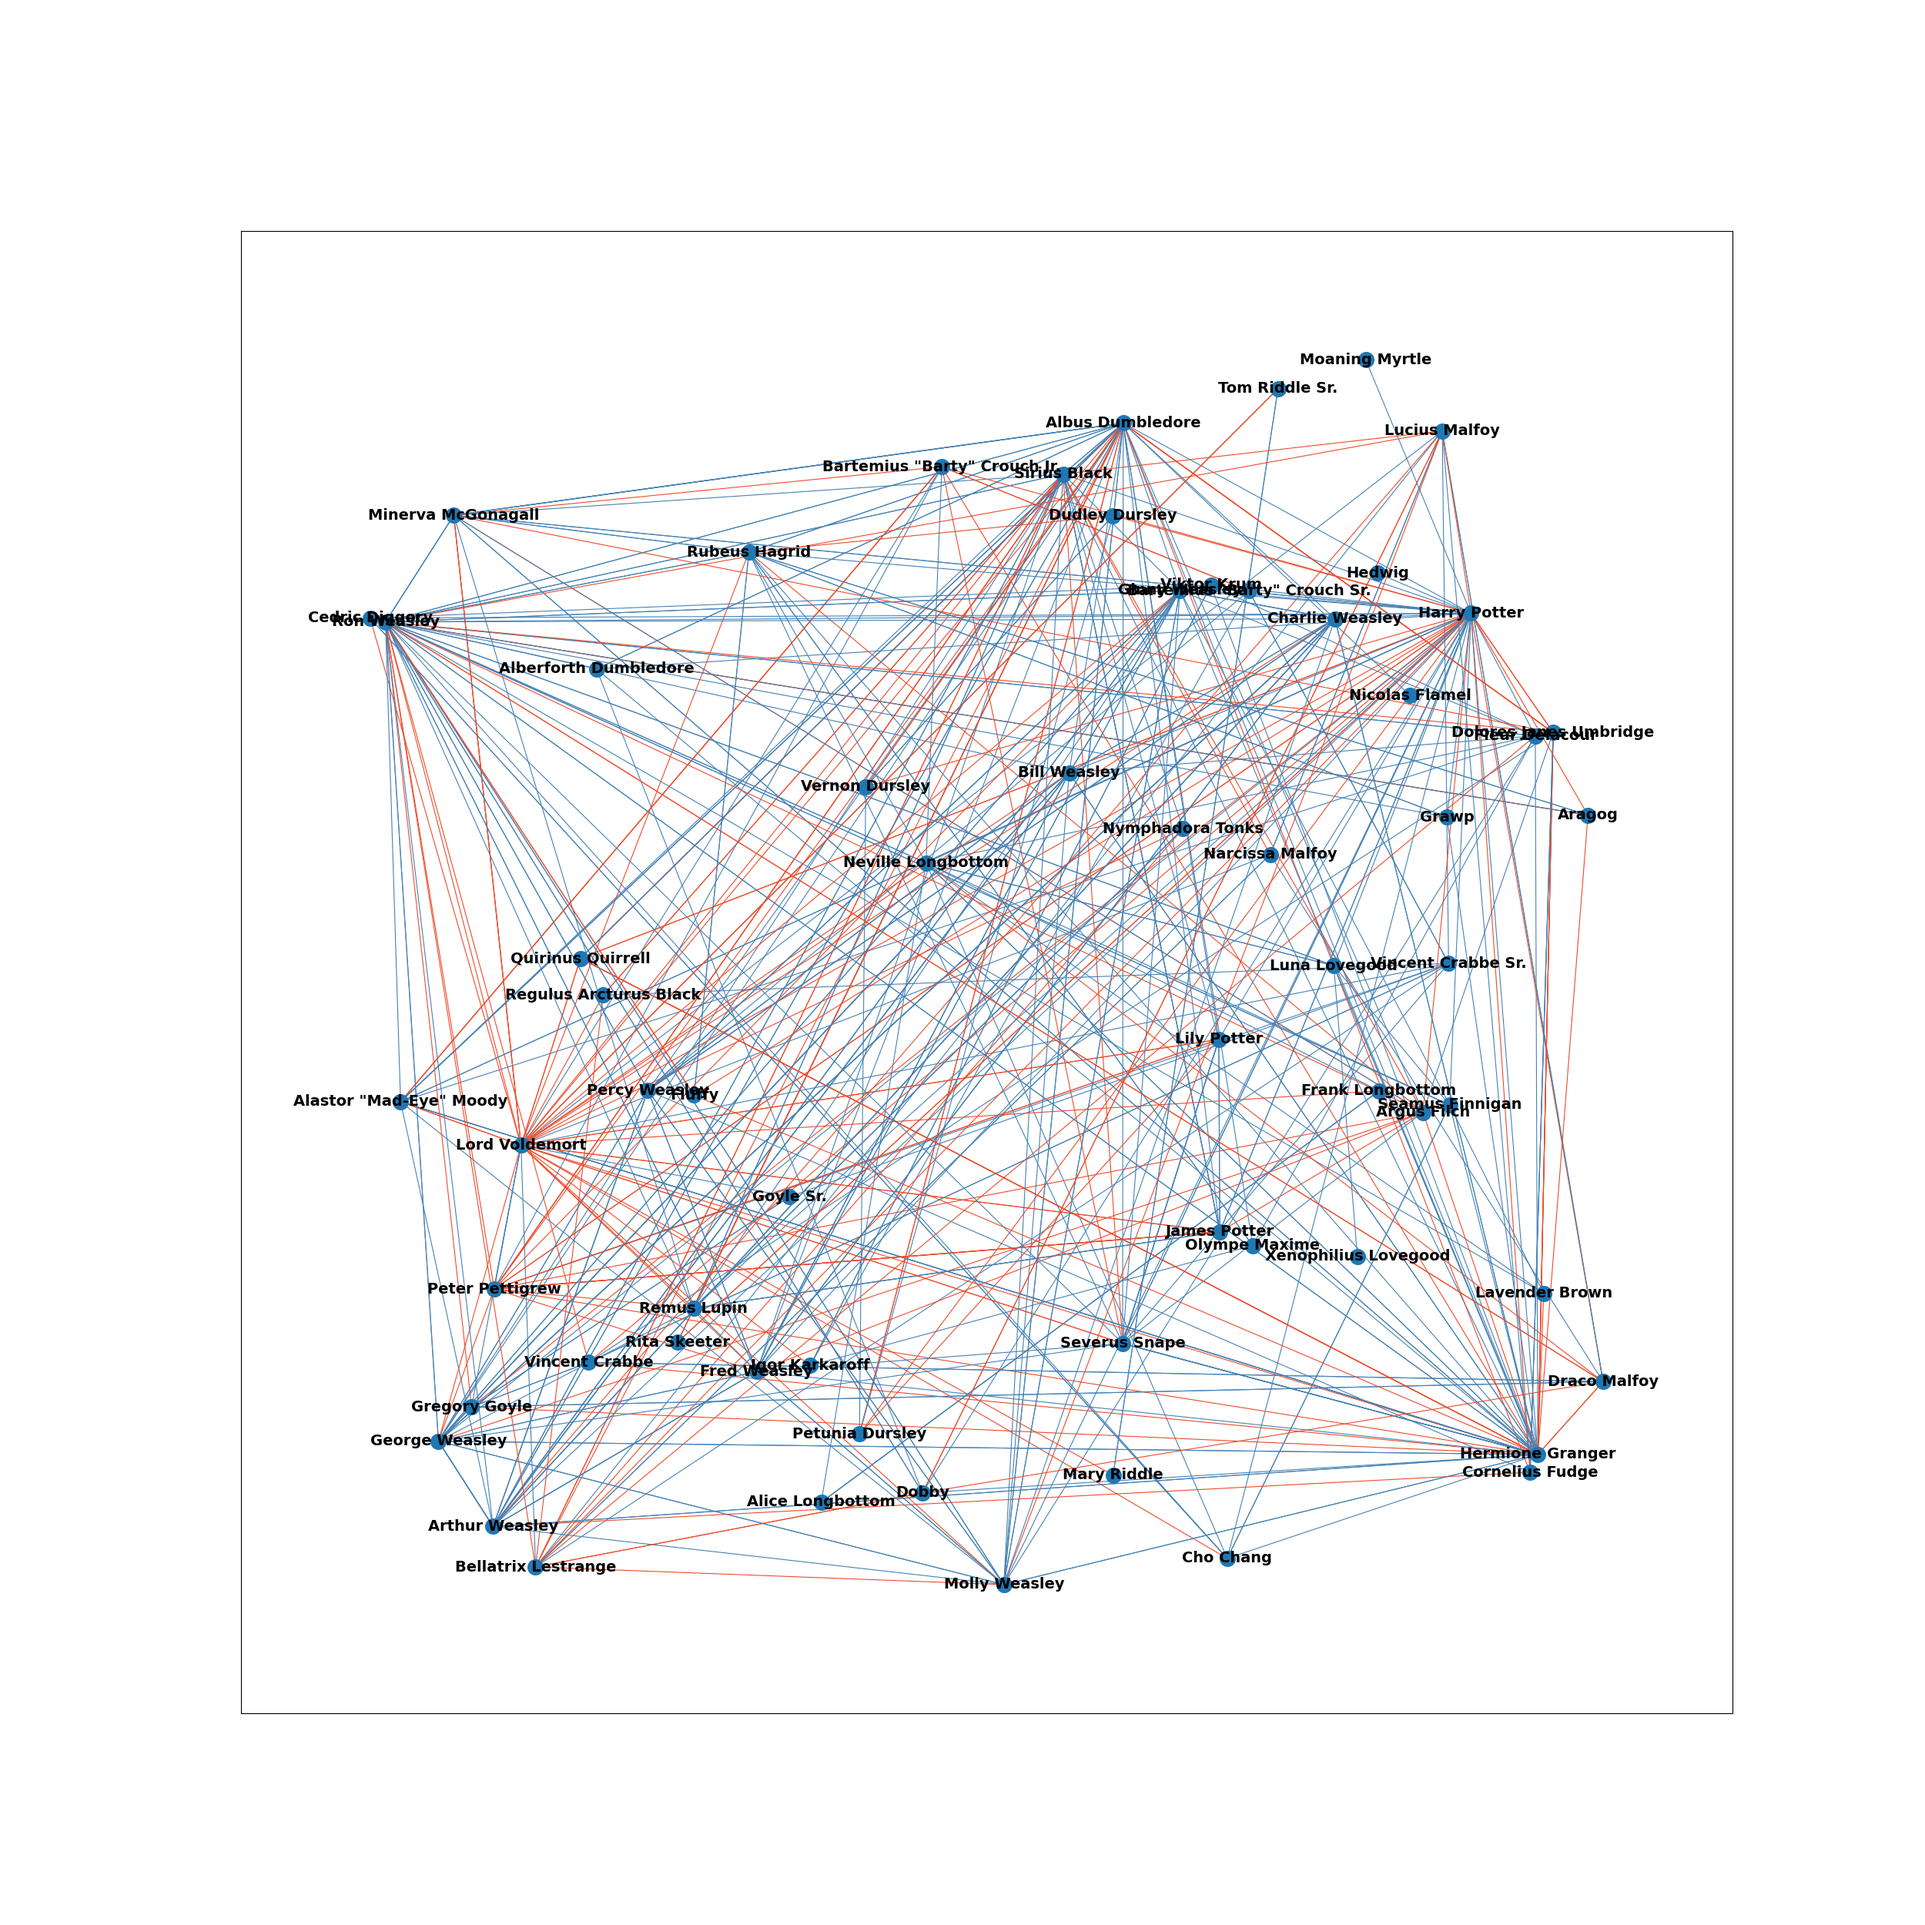
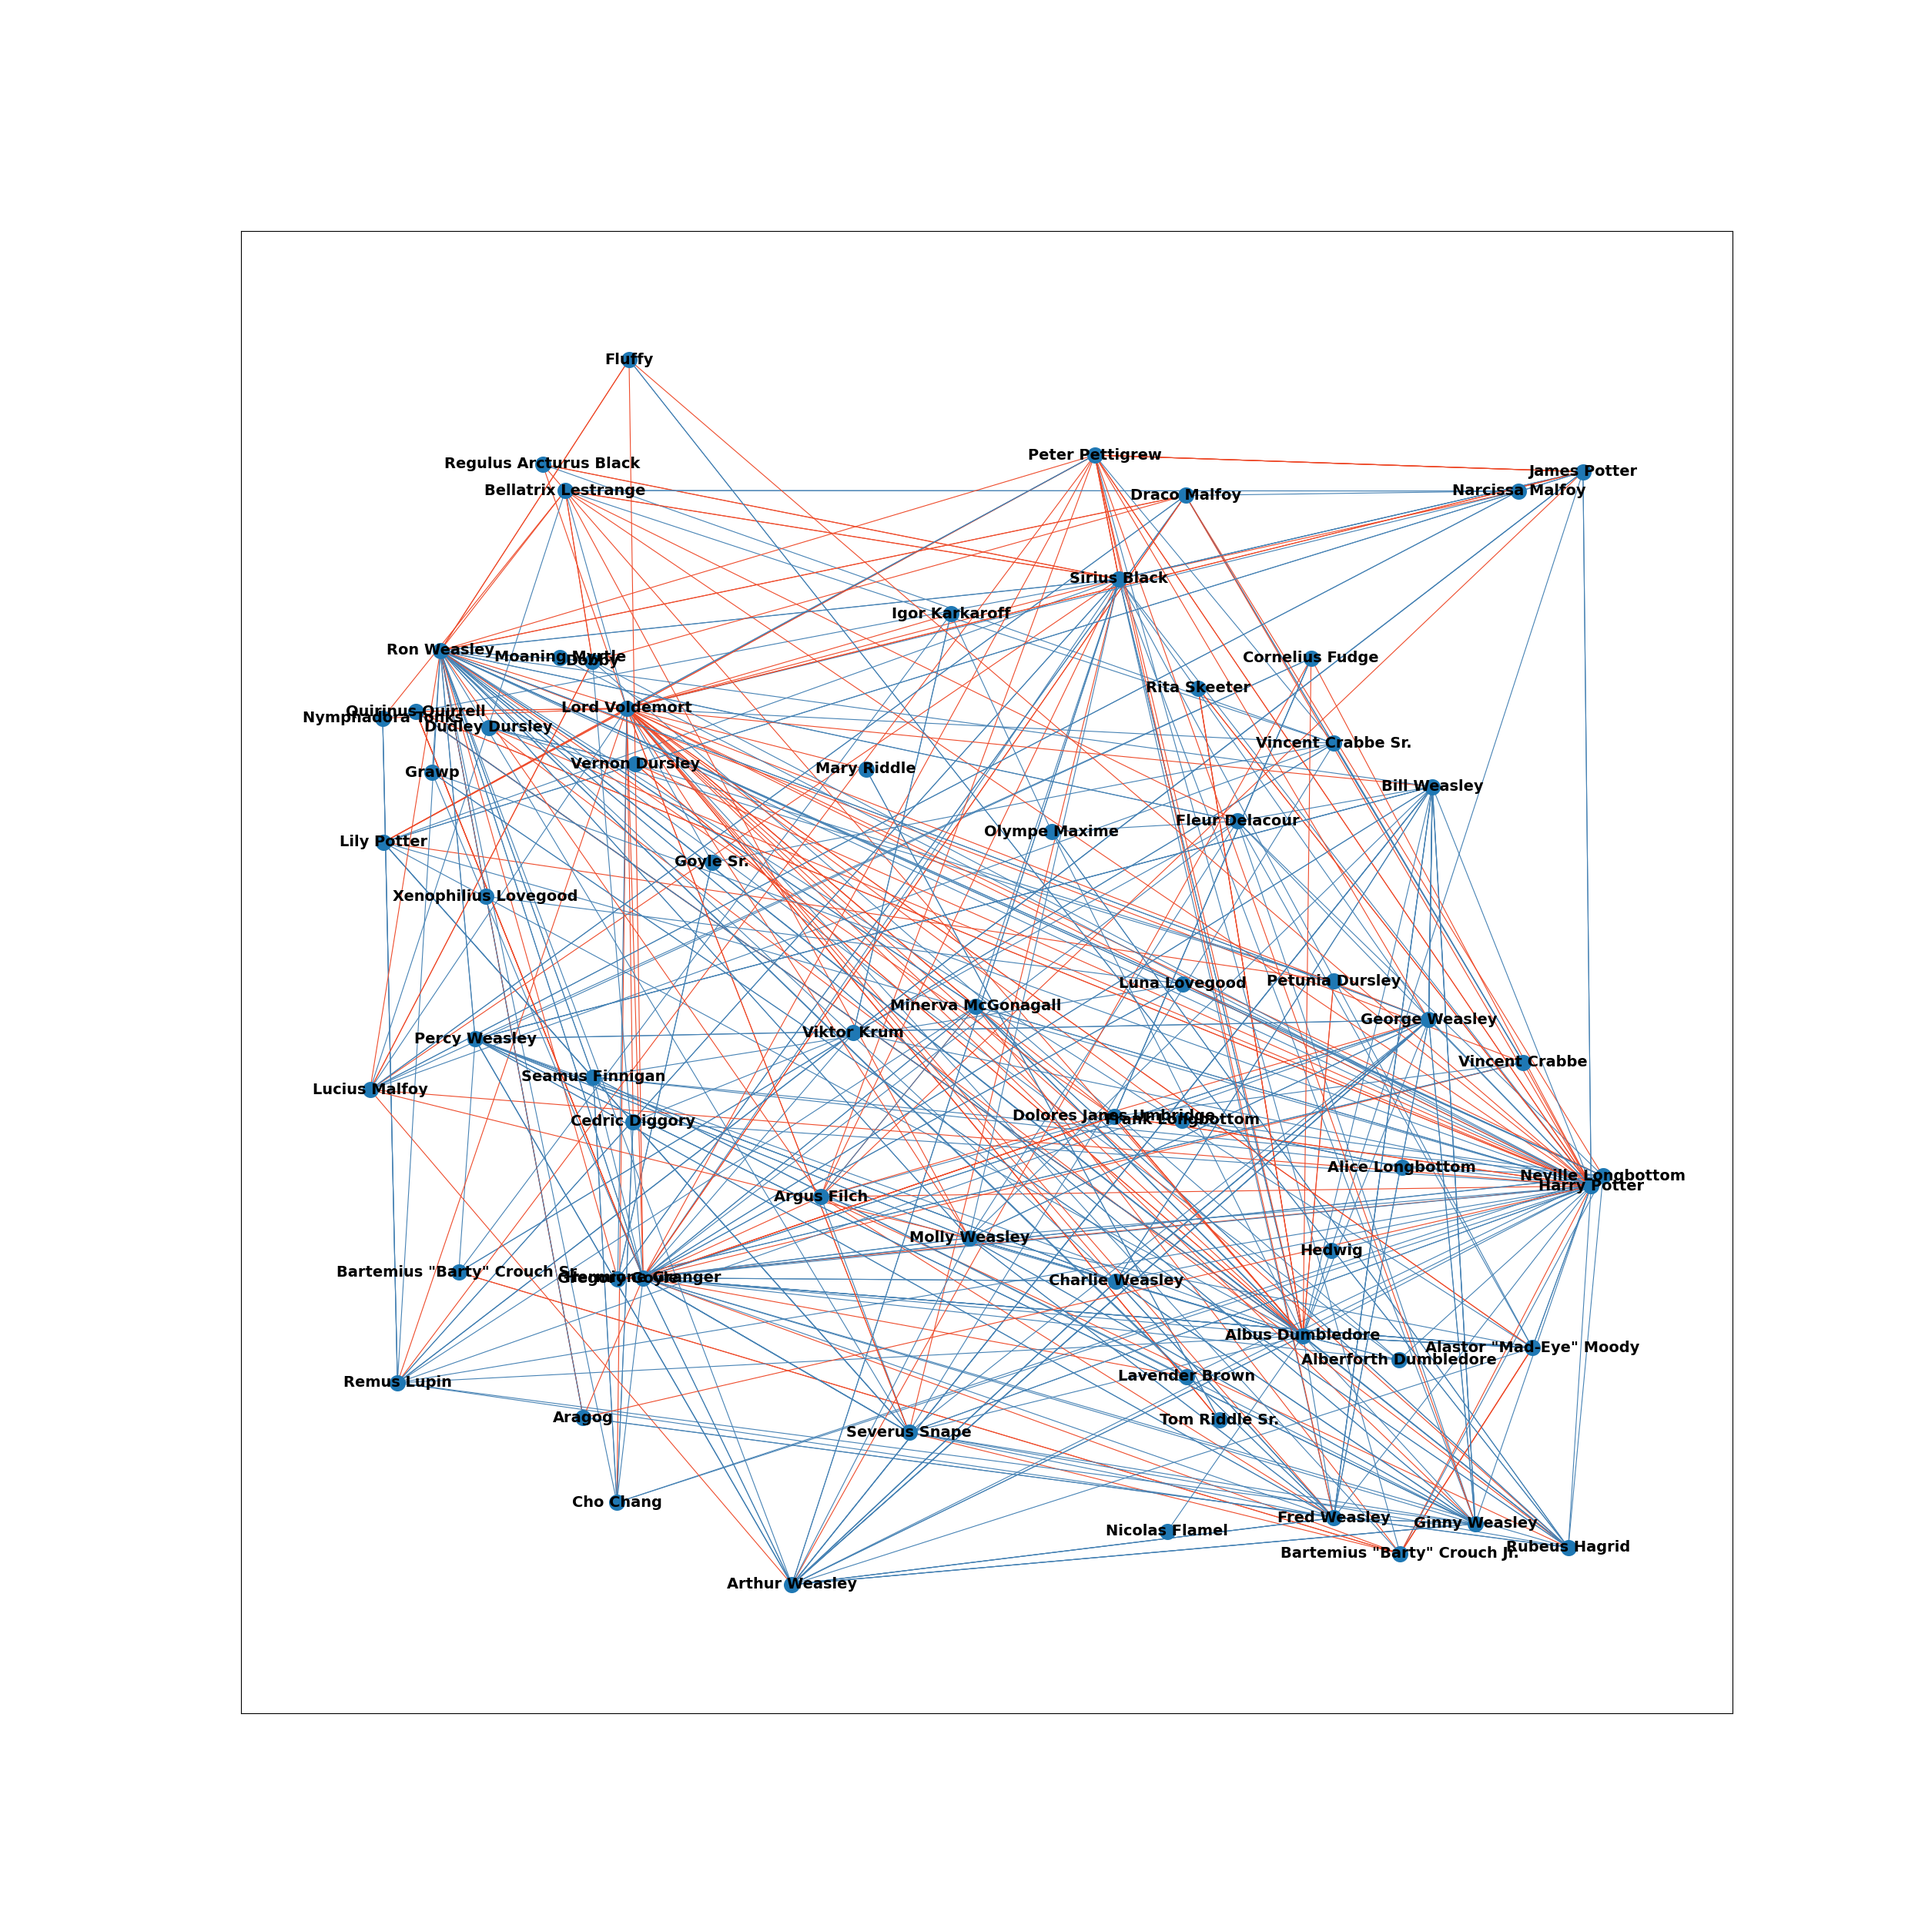
triads

Changed region(s): [[0.156, 0.1872, 0.8736, 0.8424], [0.8112, 0.2184, 0.8424, 0.2496], [0.6552, 0.1872, 0.6864, 0.2184]]

diff --git a/TriadsCommunities.py b/TriadsCommunities.py
@@ -1,0 +1,76 @@
+import pandas as pd
+import networkx as nx
+import matplotlib.pyplot as plt
+import matplotlib.colors as mcolors
+import seaborn as sns
+
+characters = pd.read_csv("data/characters.csv")
+mapping = dict(zip(characters.id, characters.name))
+print(mapping)
+
+edges = pd.read_csv("data/relations.csv")
+
+edges["type"] = edges["type"].replace("+", 1).replace("-", -1)
+
+edges_pos = edges.loc[edges["type"] == 1]
+source_list = edges_pos["source"].tolist()
+target_list = edges_pos["target"].tolist()
+
+edges_neg = edges.loc[edges["type"] == -1]
+source_neg = edges_neg["source"].tolist()
+target_neg = edges_neg["target"].tolist()
+
+edges_list_pos = []
+for i in range(0, len(source_list)):
+    edges_list_pos.append((source_list[i], target_list[i]))
+
+edges_list_neg = []
+for i in range(0, len(source_neg)):
+    edges_list_pos.append((source_neg[i], target_neg[i]))
+
+graph = nx.Graph()
+graph.add_edges_from(edges_list_pos)
+
+graph = nx.to_directed(graph)
+
+graph_neg = nx.Graph()
+graph_neg.add_edges_from(edges_list_neg)
+
+graph_neg = nx.to_directed(graph_neg)
+
+hp_triads = []
+voldemort_triads = []
+
+hp_triads_neg = []
+voldemort_triads_neg = []
+
+for triad in nx.all_triads(graph):
+    try:
+        if triad.has_node(39) and triad.has_node(55):
+            if (nx.triad_type(triad)=='120D' or nx.triad_type(triad)=='210' or nx.triad_type(triad)=='300'
+                    or nx.triad_type(triad)=='120U' or nx.triad_type(triad)=='120C')\
+                    or nx.triad_type(triad)=='030C' or nx.triad_type(triad)=='030D':
+                hp_triads.append(triad)
+        if triad.has_node(45) and triad.has_node(47):
+            if (nx.triad_type(triad) == '120D' or nx.triad_type(triad) == '210' or nx.triad_type(triad) == '300'
+                or nx.triad_type(triad) == '120U' or nx.triad_type(triad) == '120C') \
+                    or nx.triad_type(triad) == '030C' or nx.triad_type(triad) == '030D':
+                voldemort_triads.append(triad)
+    except:
+        print("no triad")
+
+print(len(hp_triads))
+print(len(voldemort_triads))
+
+for triad in hp_triads:
+    print(triad.nodes)
+
+'''triadic_census = nx.triadic_census(graph)
+for key, value in triadic_census.items():
+    print(f"{key}: {value}")
+
+
+
+triadic_census.keys()
+nx.triad_type()'''
+

diff --git a/NetworkX.py b/NetworkX.py
@@ -1,3 +1,5 @@
+import math
+
 import matplotlib
 import pandas as pd
 import networkx as nx
@@ -130,8 +132,8 @@ graph.add_edges_from(edges_list)
 
 description(graph)
 
-'''draw_network(nx.spring_layout(graph), "spring", edges["type"])
-draw_network(nx.kamada_kawai_layout(graph), "kamada", edges["type"])
+draw_network(nx.spring_layout(graph, k=16/math.sqrt(graph.order())), "spring", edges["type"])
+'''draw_network(nx.kamada_kawai_layout(graph), "kamada", edges["type"])
 draw_network(nx.random_layout(graph), "random", edges["type"])
 draw_network(nx.shell_layout(graph), "shell", edges["type"])
 draw_network(nx.spiral_layout(graph), "spiral", edges["type"])'''
